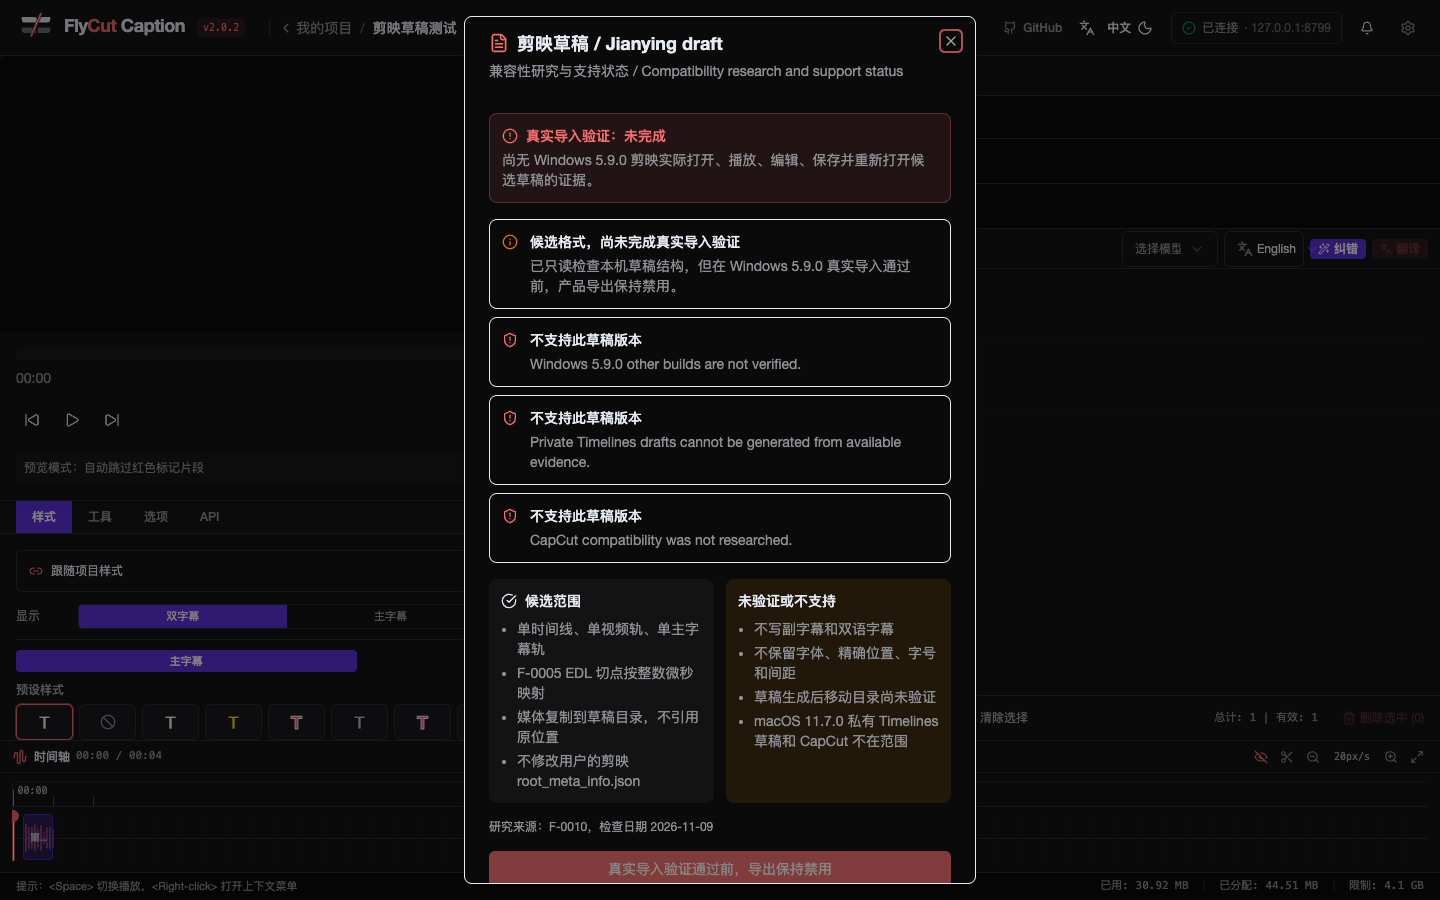
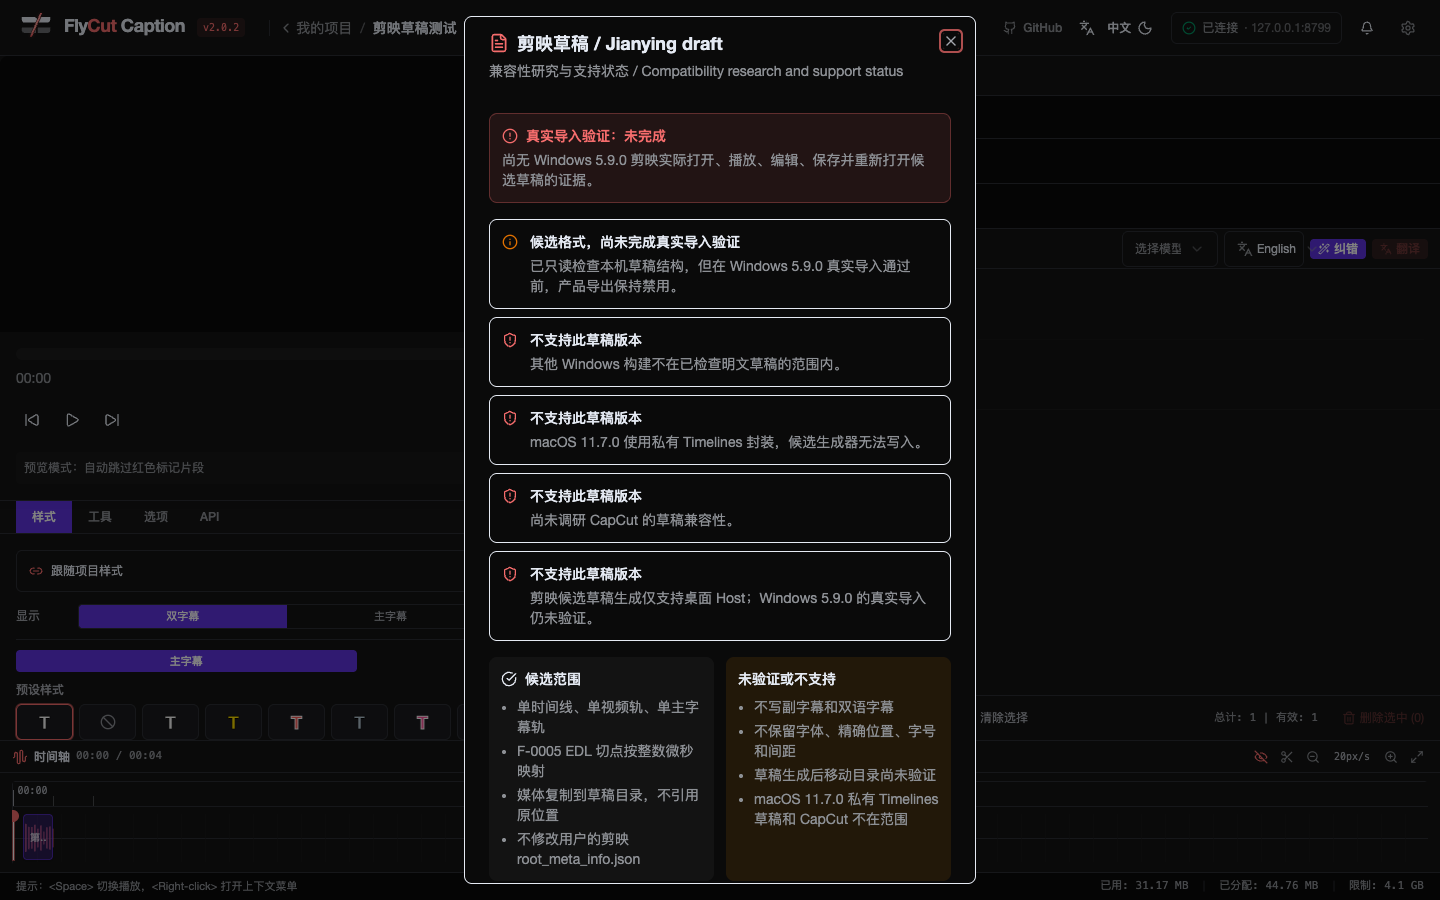
F-0011 close non-device candidate gates
Localize the unsupported-target details, expose the Web row from the design,
and keep the product export gate hard-closed. Reject missing source media with
a direct error and cover mid-generation cleanup so failed and cancelled harness
runs cannot leave staging directories.

Verification:
- Ran: pnpm lint ✅, pnpm tsc -b --noEmit ✅, pnpm check:host ✅, cargo check --manifest-path src-tauri/Cargo.toml ✅
- Ran: pnpm test ✅ (87 passed, 11 prerequisite-dependent skips)
- Ran: pnpm test:architecture ✅ 92/95; F-0011 4/4 passed; F-0006/F-0007 remaining 3 tests need absent local/external media fixtures
- Ran: isolated F-0011 Playwright on port 5179 ✅ 12/12 with 12 screenshots and 12 recordings
- Candidate: read-only round-trip verification passed for 3 video segments, 4 text segments, 21,091,224-byte copied media, matching SHA-256
- Not run: real Windows 5.9.0 or macOS 11.7.0 import/playback/edit/save/reopen; product export stays disabled

Refs: F-0011/AC-1 F-0011/AC-3 F-0011/AC-4 F-0011/AC-5 F-0011/AC-6 F-0011/AC-7

Changed region(s): [[0.3438, 0.4667, 0.6562, 0.9956], [0.375, 0.3733, 0.5625, 0.4356]]

diff --git a/src/components/ExportPanel/JianyingDraftInfoPanel.tsx b/src/components/ExportPanel/JianyingDraftInfoPanel.tsx
@@ -42,6 +42,7 @@ export function JianyingDraftInfoPanel({ active }: { active: boolean }) {
   const mac = state.value.targets.find(target => target.id === 'jianying-macos-11.7.0');
   const other = state.value.targets.find(target => target.id === 'jianying-windows-other-builds');
   const capcut = state.value.targets.find(target => target.id === 'capcut');
+  const web = state.value.targets.find(target => target.id === 'jianying-web');
   const row = (id: string, name: string, detail: string, unavailable: boolean) => (
     <div key={id} data-testid={`jianying-target-${id}`} className="flex gap-3 rounded-lg border p-3 text-sm">
       {unavailable ? <ShieldAlert className="mt-0.5 h-4 w-4 shrink-0 text-destructive" /> : <Info className="mt-0.5 h-4 w-4 shrink-0 text-amber-600" />}
@@ -56,9 +57,10 @@ export function JianyingDraftInfoPanel({ active }: { active: boolean }) {
     </div>
     <div className="space-y-2">
       {windows && row(windows.id, copy.candidate, copy.candidateDetail, false)}
-      {other && row(other.id, copy.unavailable, 'Windows 5.9.0 other builds are not verified.', true)}
-      {mac && row(mac.id, copy.unavailable, 'Private Timelines drafts cannot be generated from available evidence.', true)}
-      {capcut && row(capcut.id, copy.unavailable, 'CapCut compatibility was not researched.', true)}
+      {other && row(other.id, copy.unavailable, copy.otherBuildDetail, true)}
+      {mac && row(mac.id, copy.unavailable, copy.macDetail, true)}
+      {capcut && row(capcut.id, copy.unavailable, copy.capcutDetail, true)}
+      {web && row(web.id, copy.unavailable, copy.webDetail, true)}
     </div>
     <div className="grid gap-3 sm:grid-cols-2">
       <section className="rounded-lg bg-muted/50 p-3 text-sm"><h4 className="flex items-center gap-2 font-medium"><CheckCircle className="h-4 w-4" />{copy.scope}</h4>
@@ -66,7 +68,7 @@ export function JianyingDraftInfoPanel({ active }: { active: boolean }) {
       <section className="rounded-lg bg-amber-500/10 p-3 text-sm"><h4 className="font-medium">{copy.limitations}</h4>
         <ul className="mt-2 list-disc space-y-1 pl-4 text-muted-foreground">{copy.limitationsItems.map(item => <li key={item}>{item}</li>)}</ul></section>
     </div>
-    <p className="text-xs text-muted-foreground">{copy.research}</p>
+    <p className="text-xs text-muted-foreground">{copy.research.replace('{date}', state.value.checkedAt)}</p>
     <button data-testid="jianying-export-disabled" type="button" disabled className="w-full rounded-md bg-primary px-4 py-2 text-sm text-primary-foreground opacity-50">
       {copy.exportDisabled}
     </button>

diff --git a/tests/architecture/jianying-f0011.test.ts b/tests/architecture/jianying-f0011.test.ts
@@ -40,10 +40,12 @@ function sampleSnapshot(durationUs: number, width: number, height: number): Jian
   };
 }
 
-test('F-0011/AC-1 verified candidate stays disabled and has no export RPC', async () => {
+test('F-0011/AC-1 unverified candidate stays disabled and has no export RPC', async () => {
   assert.equal(JIANYING_CAPABILITIES.verifiedByImport, false);
   assert.equal(JIANYING_CAPABILITIES.exportEnabled, false);
+  assert.equal(JIANYING_CAPABILITIES.checkedAt, '2026-11-09');
   assert.equal(JIANYING_CAPABILITIES.targets[0].status, 'unverified');
+  assert.equal(JIANYING_CAPABILITIES.targets.find(target => target.id === 'jianying-web')?.status, 'unsupported');
   const home = await mkdtemp(join(tmpdir(), 'flycut-f0011-cap-'));
   const ctx = await createHost({ home, token: 'f0011-cap', port: 0, resourceRoot: resolve('.') }, { gateway: false });
   try {
@@ -95,7 +97,7 @@ test('F-0011/AC-4 AC-7 real video candidate preserves EDL ranges, projected subt
   }
 });
 
-test('F-0011/AC-3 AC-5 AC-6 candidate harness refuses existing names and leaves no staging on cancellation', async () => {
+test('F-0011/AC-3 AC-5 AC-6 candidate harness rejects missing media, existing names and failures without staging', async () => {
   const root = await mkdtemp(join(tmpdir(), 'flycut-f0011-cancel-'));
   try {
     const source = await shortVideo(root);
@@ -104,8 +106,12 @@ test('F-0011/AC-3 AC-5 AC-6 candidate harness refuses existing names and leaves 
     const outputParent = join(root, 'output');
     await mkdir(join(outputParent, 'existing'), { recursive: true });
     await writeFile(join(outputParent, 'existing', 'keep.txt'), 'keep');
+    await assert.rejects(generateJianyingDraft({ snapshot, sourcePath: join(root, 'missing.mp4'), outputParent, draftName: 'missing' }),
+      /Source media is missing/);
     await assert.rejects(generateJianyingDraft({ snapshot, sourcePath: source, outputParent, draftName: 'existing' }), /already exists/);
     assert.equal(await readFile(join(outputParent, 'existing', 'keep.txt'), 'utf8'), 'keep');
+    await assert.rejects(generateJianyingDraft({ snapshot, sourcePath: source, outputParent, draftName: 'mid-failure',
+      now: () => { throw new Error('injected post-copy failure'); } }), /injected post-copy failure/);
     const controller = new AbortController(); controller.abort();
     await assert.rejects(generateJianyingDraft({ snapshot, sourcePath: source, outputParent, draftName: 'cancelled', signal: controller.signal }), /cancelled/);
     assert.deepEqual((await readdir(outputParent)).sort(), ['existing']);

diff --git a/src/locales/jianying.ts b/src/locales/jianying.ts
@@ -4,12 +4,16 @@ const en = {
   checking: 'Checking Jianying draft support…',
   failed: 'Could not read Jianying draft support. Try again.',
   retry: 'Retry',
-  research: 'Research source: F-0010, checked 2026-11-09',
+  research: 'Research source: F-0010, checked {date}',
   realImport: 'Real import verification: not run',
   realImportDetail: 'No Windows 5.9.0 Jianying installation has opened, played, edited, saved and reopened a generated candidate draft.',
   unavailable: 'Unsupported draft version',
   candidate: 'Candidate format; real import is not verified',
   candidateDetail: 'The local draft structure was inspected, but the product export stays disabled until a real Windows 5.9.0 import passes.',
+  otherBuildDetail: 'Other Windows builds are not covered by the inspected plaintext draft.',
+  macDetail: 'macOS 11.7.0 uses a private Timelines container that the candidate generator cannot write.',
+  capcutDetail: 'CapCut draft compatibility has not been researched.',
+  webDetail: 'Jianying candidate generation requires the desktop Host; Windows 5.9.0 import is still unverified.',
   exportDisabled: 'Export disabled until real import validation passes',
   scope: 'Planned candidate scope',
   scopeItems: [
@@ -34,12 +38,16 @@ const zh: typeof en = {
   checking: '正在检查剪映草稿支持信息…',
   failed: '无法读取剪映草稿支持信息，请重试。',
   retry: '重试',
-  research: '研究来源：F-0010，检查日期 2026-11-09',
+  research: '研究来源：F-0010，检查日期 {date}',
   realImport: '真实导入验证：未完成',
   realImportDetail: '尚无 Windows 5.9.0 剪映实际打开、播放、编辑、保存并重新打开候选草稿的证据。',
   unavailable: '不支持此草稿版本',
   candidate: '候选格式，尚未完成真实导入验证',
   candidateDetail: '已只读检查本机草稿结构，但在 Windows 5.9.0 真实导入通过前，产品导出保持禁用。',
+  otherBuildDetail: '其他 Windows 构建不在已检查明文草稿的范围内。',
+  macDetail: 'macOS 11.7.0 使用私有 Timelines 封装，候选生成器无法写入。',
+  capcutDetail: '尚未调研 CapCut 的草稿兼容性。',
+  webDetail: '剪映候选草稿生成仅支持桌面 Host；Windows 5.9.0 的真实导入仍未验证。',
   exportDisabled: '真实导入验证通过前，导出保持禁用',
   scope: '候选范围',
   scopeItems: [

diff --git a/tests/e2e/features/F-0011.spec.ts b/tests/e2e/features/F-0011.spec.ts
@@ -28,6 +28,10 @@ async function openEditor(page: Page, theme: 'light' | 'dark', language: 'zh' | 
   const host = await mockHost(page, editorHandlers(extra));
   await page.goto(`/#/projects/${P}/videos/${VIDEO_ID}`);
   await expect(page.getByRole('button', { name: /导出|Export/, exact: true })).toBeVisible();
+  if (language === 'en') {
+    await page.getByRole('button', { name: '选择语言' }).click();
+    await page.getByRole('menuitem', { name: /English/ }).click();
+  }
   return host;
 }
 
@@ -79,8 +83,14 @@ for (const theme of THEMES) for (const language of ['zh', 'en'] as const) {
       await expect(page.getByTestId('jianying-support-matrix')).toBeVisible();
       await expect(page.getByText(/真实导入验证：未完成|Real import verification: not run/)).toBeVisible();
       await expect(page.getByTestId('jianying-target-jianying-windows-5.9.0')).toContainText(/候选格式|Candidate format/);
+      await expect(page.getByTestId('jianying-target-jianying-windows-other-builds')).toContainText(/不支持此草稿版本|Unsupported draft version/);
       await expect(page.getByTestId('jianying-target-jianying-macos-11.7.0')).toContainText(/不支持此草稿版本|Unsupported draft version/);
       await expect(page.getByTestId('jianying-target-capcut')).toContainText(/不支持此草稿版本|Unsupported draft version/);
+      await expect(page.getByTestId('jianying-target-jianying-web')).toContainText(/不支持此草稿版本|Unsupported draft version/);
+      if (language === 'zh') {
+        await expect(page.getByTestId('jianying-target-jianying-web')).toContainText('仅支持桌面 Host');
+        await expect(page.getByTestId('jianying-target-jianying-macos-11.7.0')).not.toContainText('Private Timelines');
+      }
       await expect(page.getByTestId('jianying-export-disabled')).toBeDisabled();
       await expect(page.getByText(/草稿已生成|Draft created/)).toHaveCount(0);
       await shot(page, F, `support-matrix-${theme}-${language}`);

diff --git a/server/jianying/generate.ts b/server/jianying/generate.ts
@@ -84,9 +84,13 @@ export async function generateJianyingDraft(options: GenerateJianyingOptions): P
   const inside = relative(parentPath, finalPath);
   if (!inside || inside.startsWith('..') || inside.includes(sep)) throw new Error('Draft target escapes the selected parent');
   await ensureAbsent(finalPath);
-  const probe = await probeJianyingMedia(options.sourcePath, options.ffmpeg);
-  const sourceInfo = await stat(options.sourcePath);
+  const sourceInfo = await stat(options.sourcePath).catch(error => {
+    if ((error as NodeJS.ErrnoException).code === 'ENOENT') throw new Error('Source media is missing');
+    throw error;
+  });
   if (!sourceInfo.isFile() || sourceInfo.size <= 0) throw new Error('Source media is missing or empty');
+  assertNotAborted(options.signal);
+  const probe = await probeJianyingMedia(options.sourcePath, options.ffmpeg);
   if (Math.abs(probe.durationUs - options.snapshot.edl.sourceDurationUs) > 50_000) throw new Error('EDL duration does not match source media');
   if (probe.width !== options.snapshot.videoWidth || probe.height !== options.snapshot.videoHeight) throw new Error('Snapshot dimensions do not match source media');
 

diff --git a/shared/jianying/draft.ts b/shared/jianying/draft.ts
@@ -149,7 +149,7 @@ export function jianyingDegradations(snapshot: JianyingSnapshot): JianyingDegrad
 /** Product gate: local and remote clients cannot turn a candidate into a supported export. */
 export const JIANYING_CAPABILITIES = {
   research: 'F-0010' as const,
-  researchDate: JIANYING_RESEARCH_DATE,
+  checkedAt: JIANYING_RESEARCH_DATE,
   verifiedByImport: false as const,
   exportEnabled: false as const,
   reason: 'Windows 5.9.0 明文格式只有只读结构证据，尚未完成真实剪映导入验证。',
@@ -164,6 +164,8 @@ export const JIANYING_CAPABILITIES = {
       reason: 'Only the inspected 5.9.0 plaintext draft is a candidate.' },
     { id: 'capcut', platform: 'cross-platform', version: 'any', status: 'unsupported' as const,
       reason: 'CapCut compatibility was not researched.' },
+    { id: 'jianying-web', platform: 'web', version: 'any', status: 'unsupported' as const,
+      reason: 'Jianying candidate generation requires the desktop Host; Windows 5.9.0 import is still unverified.' },
   ],
 };
 

diff --git a/tests/architecture/host.test.ts b/tests/architecture/host.test.ts
@@ -218,7 +218,10 @@ test('plugins register RPC methods, expose events and contribute capabilities wi
     assert.ok(!frames.some(frame => frame.name === 'internal/unexposed'));
     await fiber.dispose();
     await assert.rejects(host.call('echo.say', { text: 'hi' }), /Unknown RPC method/);
-    assert.deepEqual((await host.call('host.info')).capabilities, { export: true, projects: true, 'projects.linkedMedia': true, browserSession: true, cookieMedia: true });
+    assert.deepEqual((await host.call('host.info')).capabilities, {
+      export: true, projects: true, 'projects.linkedMedia': true, jianyingCapabilities: true,
+      browserSession: true, cookieMedia: true,
+    });
     assert.ok(!(await host.call('host.info')).events.includes('vendor/ping'));
   } finally { ws.terminate(); await host.close(); }
 });
